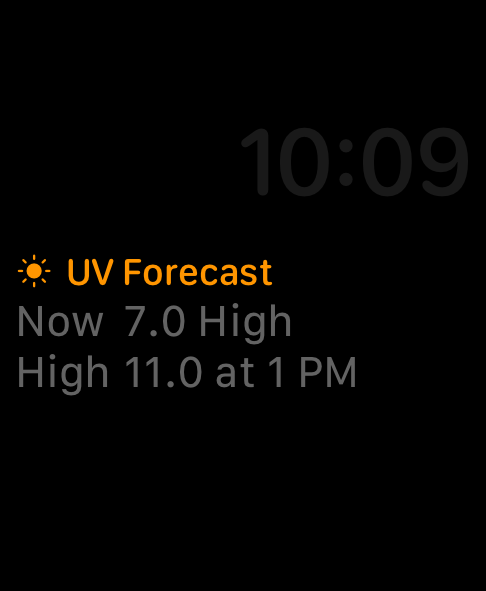
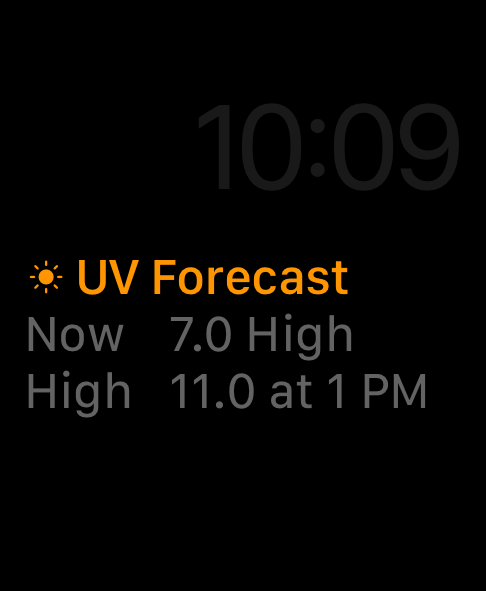
Updated screenshots

Changed region(s): [[0.0309, 0.4264, 0.8951, 0.731], [0.4012, 0.1523, 0.9877, 0.335]]

diff --git a/static/uv-forecast/uv-forecast.html b/static/uv-forecast/uv-forecast.html
@@ -59,6 +59,10 @@
     		</div>
     		
     		<div class="device-model">
+      		<img src="./resources/screenshot-simple-text-complication.png" alt="Screenshot of modular table complication" />
+    		</div>
+    		
+    		<div class="device-model">
       		<img src="./resources/screenshot-corner-gauge-complication.png" alt="Screenshot of corner gauge complication" />
     		</div>
     		
